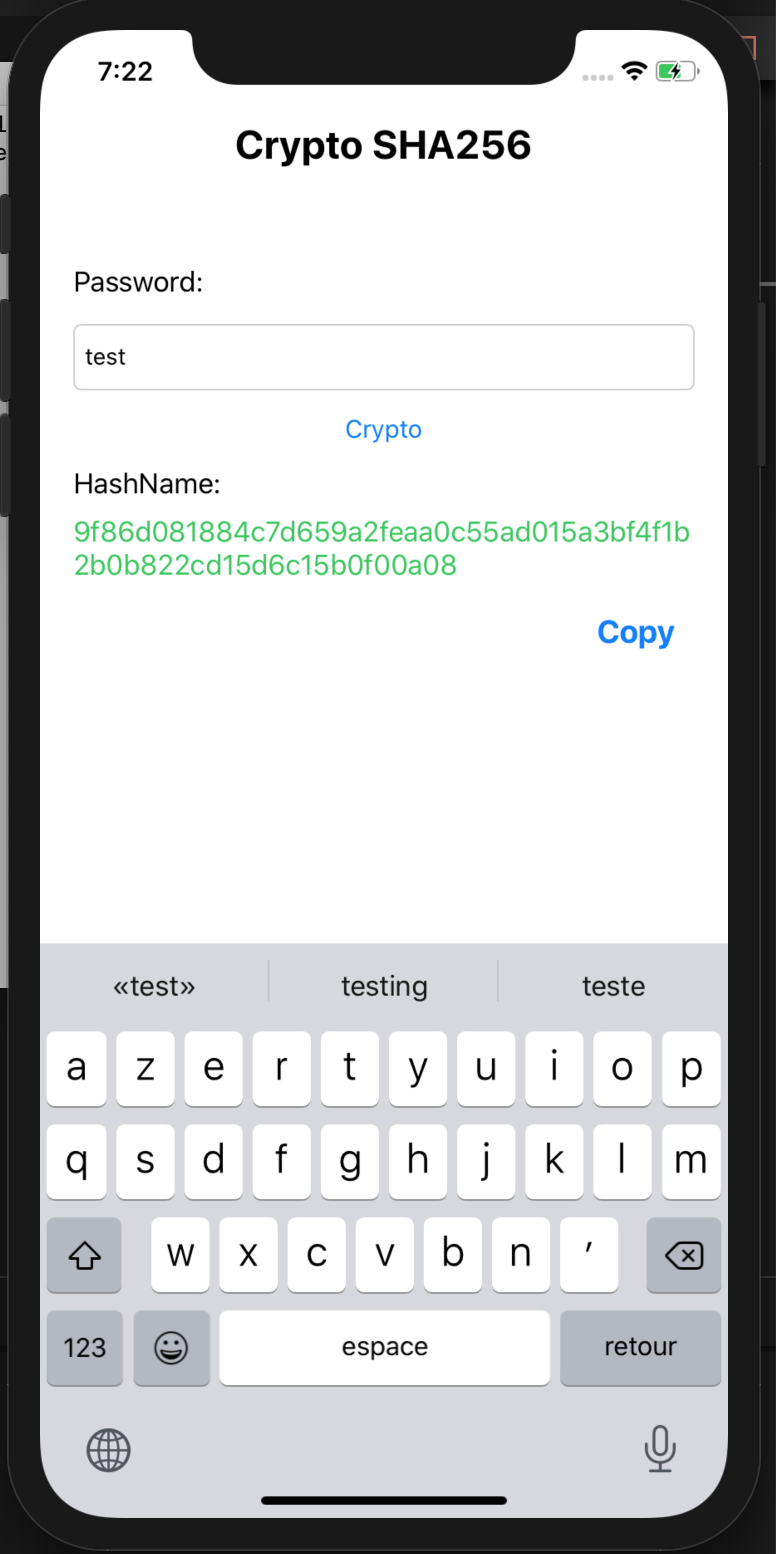
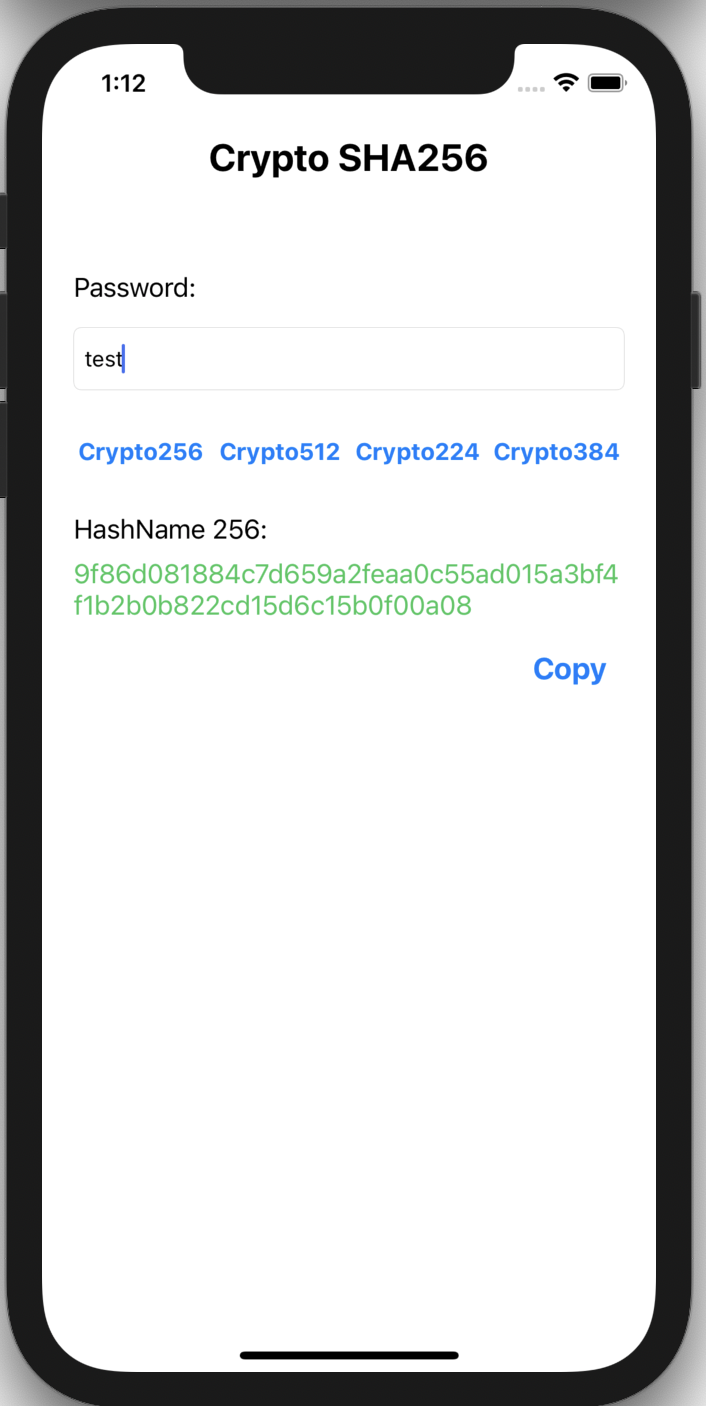
update podspec README screen

diff --git a/README.md b/README.md
@@ -1,7 +1,7 @@
 # Swift-CryptoSHA
 ============
 
-Swift Crypto SHA256,  SHA51,2 SHA224 and SHA384
+Swift Crypto SHA256,  SHA512, SHA224 and SHA384
 
 ## Getting Started
 
@@ -15,6 +15,7 @@ An [example ViewController](https://github.com/devzhr/Swift-CryptoSHA/blob/maste
 </p>
 
 <img src="screen1.png" width="400" height="800" />&nbsp;&nbsp;&nbsp;&nbsp;<img src="screen2.png" width="400" height="800" />
+<img src="screen3.png" width="400" height="800" />&nbsp;&nbsp;&nbsp;&nbsp;<img src="screen4.png" width="400" height="800" />
 
 ## How do I get involved?
 
